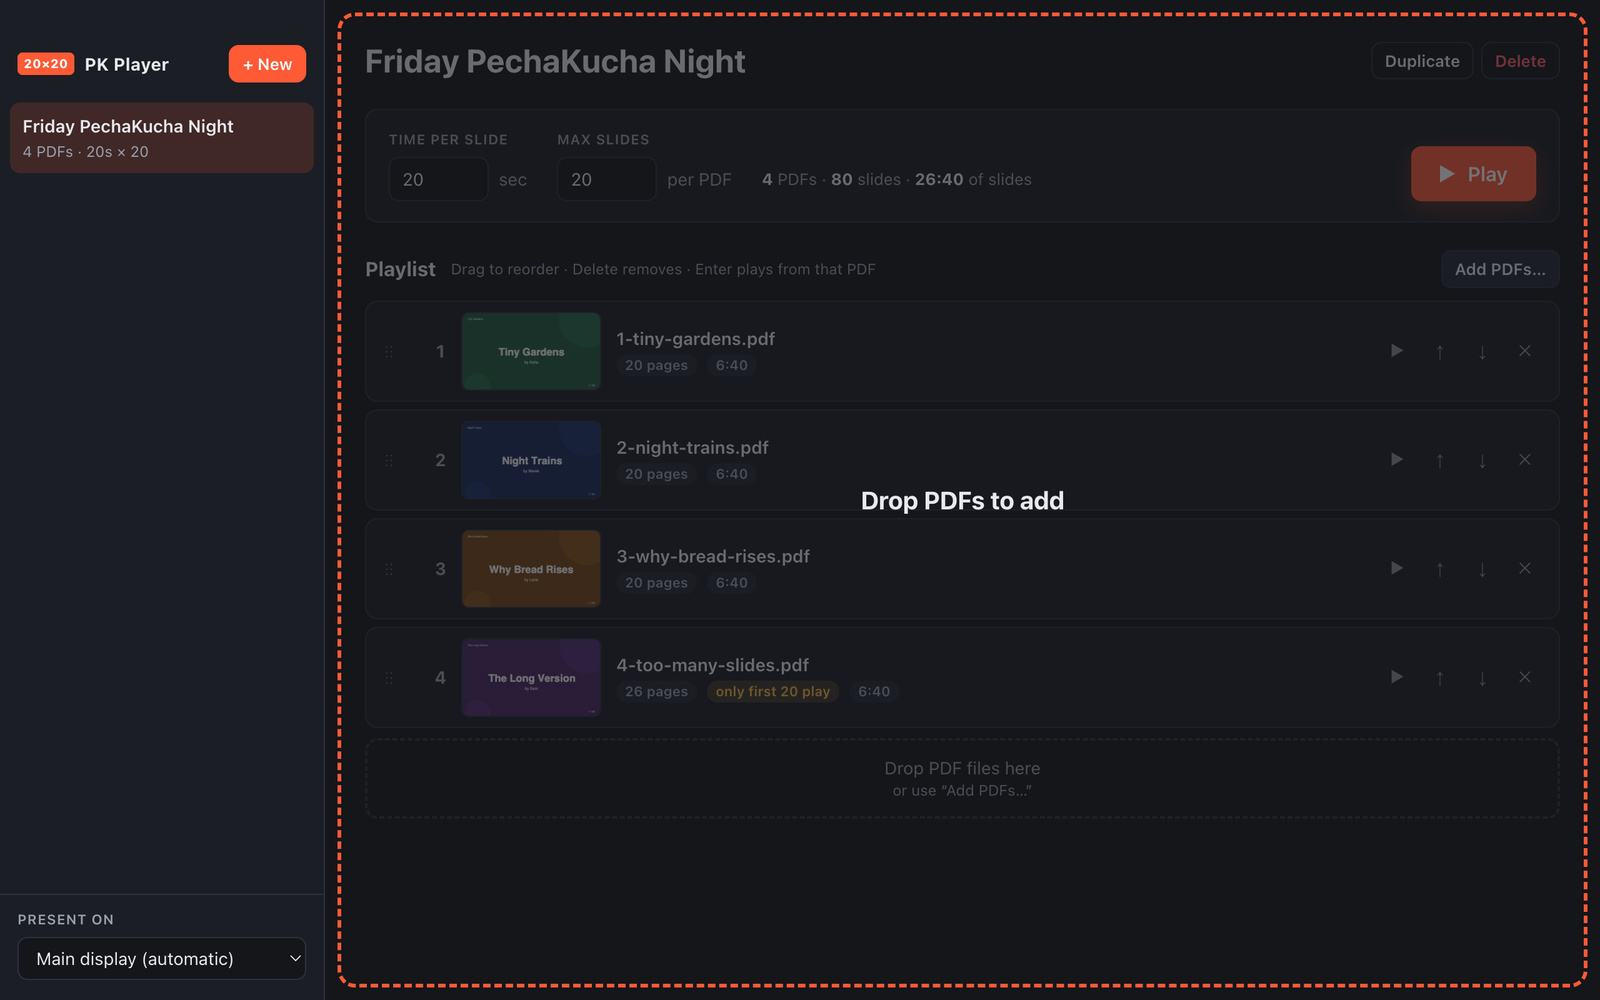
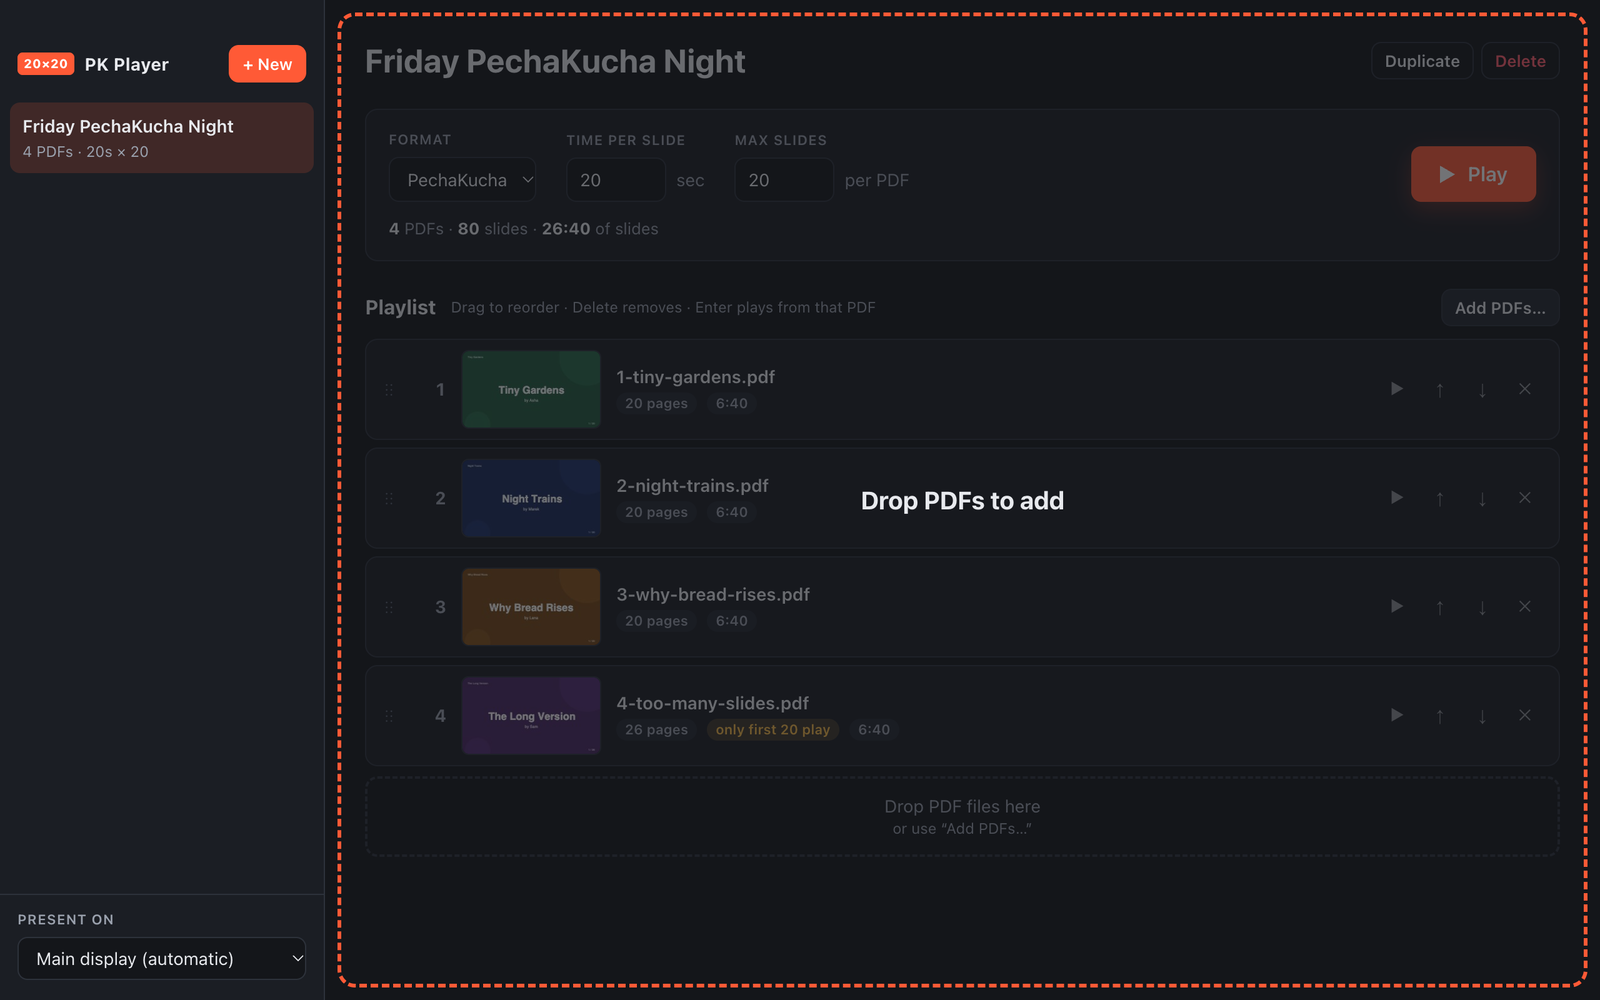
Format menu: PechaKucha, Ignite and Custom presets for the two timing settings
The summary line moves under the settings so Play stays on the first line. Manual, README and screenshots updated.

diff --git a/src/renderer/editor.js b/src/renderer/editor.js
@@ -1,6 +1,7 @@
 // Editor window: manage Events, their settings and PDF playlists.
 import { debug } from '../lib/debug.js';
 import { slidesToPlay } from '../lib/player-controller.js';
+import { CUSTOM_PRESET_ID, PRESETS, presetById, presetIdFor } from '../lib/presets.js';
 import { openPdf, renderPage } from './pdf.js';
 
 const pk = window.pk;
@@ -172,11 +173,22 @@ function renderEvent() {
   }
   $('emptyState').hidden = true;
   if (document.activeElement !== $('eventName')) $('eventName').value = ev.name;
-  $('timePerSlide').value = ev.timePerSlide;
-  $('maxSlides').value = ev.maxSlides;
+  renderSettings(ev);
   renderPlaylist();
   renderSummary();
   hydrateItems(ev);
+}
+
+/**
+ * Show the event's two settings, and the preset they match (or "Custom").
+ * With keepFocused, a field the user is typing in is left alone, so a typed
+ * edit whose save finishes late never overwrites what they typed next.
+ */
+function renderSettings(ev, { keepFocused = false } = {}) {
+  for (const key of ['timePerSlide', 'maxSlides']) {
+    if (!keepFocused || document.activeElement !== $(key)) $(key).value = ev[key];
+  }
+  $('preset').value = presetIdFor(ev.timePerSlide, ev.maxSlides);
 }
 
 function itemStats(ev, it) {
@@ -363,6 +375,7 @@ async function saveEventPatch(patch, inputEl) {
     inputEl?.classList.remove('invalid');
     renderSidebar();
     if ('maxSlides' in patch || 'timePerSlide' in patch) {
+      renderSettings(updated, { keepFocused: Boolean(inputEl) });
       for (const it of updated.items) updateRow(it);
       renderSummary();
     }
@@ -375,6 +388,8 @@ async function saveEventPatch(patch, inputEl) {
       inputEl.classList.add('invalid');
       const key = Object.keys(patch)[0];
       inputEl.value = ev[key];
+    } else if ('maxSlides' in patch || 'timePerSlide' in patch) {
+      renderSettings(ev); // a preset that could not be saved: show the real settings again
     }
   }
 }
@@ -629,6 +644,21 @@ function wireControls() {
       if (e.key === 'Enter') el.blur();
     });
   }
+
+  const presetEl = $('preset');
+  for (const p of [...PRESETS, { id: CUSTOM_PRESET_ID, label: 'Custom' }]) {
+    presetEl.append(new Option(p.label, p.id));
+  }
+  presetEl.addEventListener('change', () => {
+    const preset = presetById(presetEl.value);
+    if (preset) {
+      saveEventPatch({ timePerSlide: preset.timePerSlide, maxSlides: preset.maxSlides });
+    } else {
+      // "Custom" changes nothing by itself: hand over to the field to type in.
+      $('timePerSlide').focus();
+      $('timePerSlide').select();
+    }
+  });
 
   $('displaySelect').addEventListener('change', async (e) => {
     const v = e.target.value;

diff --git a/test/e2e/app.spec.js b/test/e2e/app.spec.js
@@ -122,6 +122,49 @@ test('editor: create event, set properties, import, reorder, remove, persist', a
   await app2.close();
 });
 
+test('editor: Format preset sets both settings, follows manual edits, and persists', async () => {
+  const { app, editor } = await launch();
+  await editor.click('#newEvent');
+  await editor.fill('#eventName', 'Preset Night');
+  await editor.press('#eventName', 'Enter');
+
+  // A new event is 20 x 20, which is the PechaKucha preset.
+  await expect(editor.locator('#preset')).toHaveValue('pechakucha');
+  await expect(editor.locator('#preset option')).toHaveText(['PechaKucha', 'Ignite', 'Custom']);
+
+  // Choosing Ignite sets both fields and the sidebar summary.
+  await editor.selectOption('#preset', 'ignite');
+  await expect(editor.locator('#timePerSlide')).toHaveValue('15');
+  await expect(editor.locator('#maxSlides')).toHaveValue('20');
+  await expect(editor.locator('.event-item.selected .meta')).toContainText('15s × 20');
+
+  // Editing a field by hand moves the preset to Custom, and back when it matches again.
+  await editor.fill('#maxSlides', '12');
+  await editor.press('#maxSlides', 'Enter');
+  await expect(editor.locator('#preset')).toHaveValue('custom');
+  await editor.fill('#maxSlides', '20');
+  await editor.press('#maxSlides', 'Enter');
+  await expect(editor.locator('#preset')).toHaveValue('ignite');
+
+  // Choosing Custom changes nothing and puts the cursor in Time per slide.
+  await editor.selectOption('#preset', 'custom');
+  await expect(editor.locator('#timePerSlide')).toBeFocused();
+  await expect(editor.locator('#timePerSlide')).toHaveValue('15');
+  await expect(editor.locator('#maxSlides')).toHaveValue('20');
+
+  // Back to PechaKucha, and it survives a restart.
+  await editor.selectOption('#preset', 'pechakucha');
+  await expect(editor.locator('#timePerSlide')).toHaveValue('20');
+  await editor.screenshot({ path: path.join(SHOTS, 'editor-preset.png') });
+  await editor.selectOption('#preset', 'ignite');
+  await expect(editor.locator('#timePerSlide')).toHaveValue('15');
+  await app.close();
+  const { app: app2, editor: editor2 } = await launch();
+  await expect(editor2.locator('#preset')).toHaveValue('ignite');
+  await expect(editor2.locator('#timePerSlide')).toHaveValue('15');
+  await app2.close();
+});
+
 test('player: waits for Play, times slides exactly, caps at max slides, stops at each deck', async () => {
   const { app, editor } = await launch();
   await setupEvent(app, editor, { files: [fx('bravo-25-slides.pdf'), fx('charlie-3-slides.pdf')] });

diff --git a/test/unit/presets.test.js b/test/unit/presets.test.js
@@ -1,0 +1,56 @@
+import { test } from 'node:test';
+import assert from 'node:assert/strict';
+import { CUSTOM_PRESET_ID, PRESETS, presetById, presetIdFor } from '../../src/lib/presets.js';
+import { DEFAULT_MAX_SLIDES, DEFAULT_TIME_PER_SLIDE } from '../../src/lib/player-controller.js';
+import { Store } from '../../src/main/store.js';
+import fs from 'node:fs';
+import os from 'node:os';
+import path from 'node:path';
+
+test('presets have unique ids and labels, and none is called "custom"', () => {
+  const ids = PRESETS.map((p) => p.id);
+  assert.equal(new Set(ids).size, ids.length);
+  assert.equal(new Set(PRESETS.map((p) => p.label)).size, PRESETS.length);
+  assert.ok(!ids.includes(CUSTOM_PRESET_ID));
+});
+
+test('PechaKucha is 20 x 20 and Ignite is 20 slides x 15 s', () => {
+  assert.deepEqual(
+    { t: presetById('pechakucha').timePerSlide, m: presetById('pechakucha').maxSlides },
+    { t: 20, m: 20 },
+  );
+  assert.deepEqual({ t: presetById('ignite').timePerSlide, m: presetById('ignite').maxSlides }, { t: 15, m: 20 });
+});
+
+test('a new event starts on the PechaKucha preset', () => {
+  assert.equal(presetIdFor(DEFAULT_TIME_PER_SLIDE, DEFAULT_MAX_SLIDES), 'pechakucha');
+});
+
+test('presetIdFor matches exact settings only, and accepts numeric strings', () => {
+  assert.equal(presetIdFor(15, 20), 'ignite');
+  assert.equal(presetIdFor('15', '20'), 'ignite');
+  assert.equal(presetIdFor(15, 19), CUSTOM_PRESET_ID);
+  assert.equal(presetIdFor(20.5, 20), CUSTOM_PRESET_ID);
+  assert.equal(presetIdFor(undefined, undefined), CUSTOM_PRESET_ID);
+  assert.equal(presetIdFor('abc', 20), CUSTOM_PRESET_ID);
+});
+
+test('presetById returns null for custom and unknown ids', () => {
+  assert.equal(presetById(CUSTOM_PRESET_ID), null);
+  assert.equal(presetById('nope'), null);
+  assert.equal(presetById(undefined), null);
+});
+
+test('the store accepts every preset in one update', () => {
+  const dir = fs.mkdtempSync(path.join(os.tmpdir(), 'pk-presets-'));
+  try {
+    const store = new Store(dir);
+    const ev = store.createEvent('Preset check');
+    for (const p of PRESETS) {
+      const updated = store.updateEvent(ev.id, { timePerSlide: p.timePerSlide, maxSlides: p.maxSlides });
+      assert.equal(presetIdFor(updated.timePerSlide, updated.maxSlides), p.id);
+    }
+  } finally {
+    fs.rmSync(dir, { recursive: true, force: true });
+  }
+});

diff --git a/src/renderer/editor.css b/src/renderer/editor.css
@@ -76,12 +76,14 @@
 .event-actions { display: flex; gap: 6px; }
 
 .props {
-  display: flex; align-items: flex-end; gap: 24px; flex-wrap: wrap;
+  display: flex; align-items: flex-end; gap: 12px 24px; flex-wrap: wrap;
   background: var(--bg-elev); border: 1px solid var(--border); border-radius: var(--radius);
   padding: 16px 18px; margin-bottom: 22px;
 }
 .prop { display: flex; flex-direction: column; gap: 6px; }
-.prop.summary { display: block; color: var(--text-dim); font-size: 13px; padding-bottom: 9px; white-space: nowrap; }
+.prop .select { height: 36px; } /* same height as the number fields beside it */
+/* The summary has its own line under the fields, so Play stays on the first line at any width. */
+.prop.summary { display: block; order: 9; flex-basis: 100%; color: var(--text-dim); font-size: 13px; }
 .summary strong { color: var(--text); }
 .play-group { margin-left: auto; display: flex; gap: 8px; align-items: center; }
 

diff --git a/src/lib/presets.js b/src/lib/presets.js
@@ -1,0 +1,22 @@
+// Timing presets: named combinations of the two event settings.
+// Pure data and lookups, shared by the editor and the unit tests.
+
+export const CUSTOM_PRESET_ID = 'custom';
+
+export const PRESETS = [
+  { id: 'pechakucha', label: 'PechaKucha', timePerSlide: 20, maxSlides: 20 },
+  { id: 'ignite', label: 'Ignite', timePerSlide: 15, maxSlides: 20 },
+];
+
+/** The preset with this id, or null (also null for "custom" and anything unknown). */
+export function presetById(id) {
+  return PRESETS.find((p) => p.id === id) || null;
+}
+
+/** Id of the preset these settings match exactly, or "custom" when they match none. */
+export function presetIdFor(timePerSlide, maxSlides) {
+  const time = Number(timePerSlide);
+  const max = Number(maxSlides);
+  const match = PRESETS.find((p) => p.timePerSlide === time && p.maxSlides === max);
+  return match ? match.id : CUSTOM_PRESET_ID;
+}

diff --git a/src/renderer/editor.html b/src/renderer/editor.html
@@ -43,6 +43,10 @@
 
         <div class="props">
           <div class="prop">
+            <label class="field-label" for="preset">Format</label>
+            <select id="preset" class="select" title="Sets Time per slide and Max slides together"></select>
+          </div>
+          <div class="prop">
             <label class="field-label" for="timePerSlide">Time per slide</label>
             <div class="input-unit"><input id="timePerSlide" class="input num" type="number" min="1" max="3600" step="1"><span>sec</span></div>
           </div>

diff --git a/README.md b/README.md
@@ -20,7 +20,7 @@
 - **Timing that doesn't drift.** Every slide gets exactly its time, measured at ±10 ms per slide.
 - **A clean handover between presenters.** After a deck's last slide, the next deck waits on a Play button. Nothing advances until you press Space.
 - **Over-long decks are capped.** A deck with more pages than Max slides is flagged in the playlist, and the extra pages are never shown.
-- **Any timed format.** 20 slides × 20 seconds is the default. Set 15 seconds for Ignite-style talks, or anything from 1 second to an hour per slide.
+- **Any timed format.** 20 slides × 20 seconds is the default. The **Format** menu switches to Ignite (20 slides × 15 seconds) in one click, or you can set anything from 1 second to an hour per slide.
 
 ![A deck waiting on its Play button](docs/manual/img/07-player-waiting.png)
 
@@ -47,7 +47,7 @@ Then, when you need them:
 
 ## Editor
 
-- **+ New** creates an Event (defaults: 20 s per slide, 20 max slides).
+- **+ New** creates an Event (defaults: 20 s per slide, 20 max slides). **Format** sets both at once: PechaKucha (20 × 20 s), Ignite (20 × 15 s) or Custom.
 - Drop PDFs onto the playlist (at the drop position), onto an event in the sidebar, or anywhere in the window. With no event selected, dropping creates a new one. You can also use **Add PDFs…** (⌘O).
 - PDFs are copied into the app's library, so moving or deleting the originals is safe (File → Reveal Library Folder).
 - To reorder, drag rows, use the ↑/↓ buttons, or press ⌥↑/⌥↓ on a focused row. To remove a row, use ✕ or press Delete.

diff --git a/docs/manual/03-editor.md b/docs/manual/03-editor.md
@@ -6,7 +6,7 @@ The editor is the window you see when PK Player opens. Left: your events and the
 
 ## Events
 
-An **Event** has a name, two settings, and a playlist of PDFs. Events are saved automatically as you edit — there is no Save button.
+An **Event** has a name, two settings (with a Format shortcut for them), and a playlist of PDFs. Events are saved automatically as you edit — there is no Save button.
 
 | Action | How |
 | --- | --- |
@@ -27,7 +27,17 @@ An **Event** has a name, two settings, and a playlist of PDFs. Events are saved 
 
 Change a value and press Enter or click elsewhere. An out-of-range value shakes, shows an error and reverts.
 
-Next to the settings, the summary shows **PDFs · slides that will actually play · total slide time**. The total excludes the pauses on each Play button, so allow a little more on the night.
+**Format** sets both values in one step:
+
+| Format | Time per slide | Max slides |
+| --- | --- | --- |
+| PechaKucha | 20 sec | 20 |
+| Ignite | 15 sec | 20 |
+| Custom | whatever you type | whatever you type |
+
+Format always shows what the two settings currently are. If you change either setting by hand to something that matches no format, it switches to **Custom**. Choosing Custom yourself changes nothing; it puts the cursor in Time per slide so you can type.
+
+Under the settings, the summary shows **PDFs · slides that will actually play · total slide time**. The total excludes the pauses on each Play button, so allow a little more on the night.
 
 ## Playlist
 

diff --git a/docs/manual/01-getting-started.md b/docs/manual/01-getting-started.md
@@ -16,14 +16,14 @@ If macOS or Windows asks before opening the app the first time, see [First-launc
 
 Click **+ New Event** (or press ⌘N / Ctrl+N). A new event appears in the sidebar and its name is ready to edit at the top. Type a name — say *Friday PechaKucha Night* — and press Enter.
 
-Two settings sit under the name:
+Two settings sit under the name, next to a **Format** menu that fills them in for you (PechaKucha, Ignite, or Custom):
 
 ![Event settings](img/03-settings.png)
 
 - **Time per slide** — seconds each slide is on screen. PechaKucha is 20.
 - **Max slides** — the most pages any single PDF may show. PechaKucha is 20.
 
-Leave both at 20. The line to the right adds things up for you: number of PDFs, total slides that will play, and total slide time.
+Leave both at 20. The line underneath adds things up for you: number of PDFs, total slides that will play, and total slide time.
 
 ## 3. Add the decks
 

diff --git a/docs/manual/08-building-and-releasing.md b/docs/manual/08-building-and-releasing.md
@@ -126,6 +126,7 @@ The Windows build is unsigned, so SmartScreen warns on first launch. Signing it 
 | `main.js` | Main process: windows, `app://` protocol, IPC, menus, display selection. |
 | `preload.cjs` | The bridge (`window.pk`) between pages and the main process. |
 | `src/main/store.js` | Events, settings and the PDF library on disk. |
+| `src/lib/presets.js` | The Format presets (PechaKucha, Ignite). |
 | `src/lib/player-controller.js` | Pure timing state machine (waiting / playing / paused / ended). |
 | `src/renderer/` | Editor and player pages; pdf.js rendering in `pdf.js`. |
 | `test/unit/`, `test/e2e/` | Unit and end-to-end tests. |
